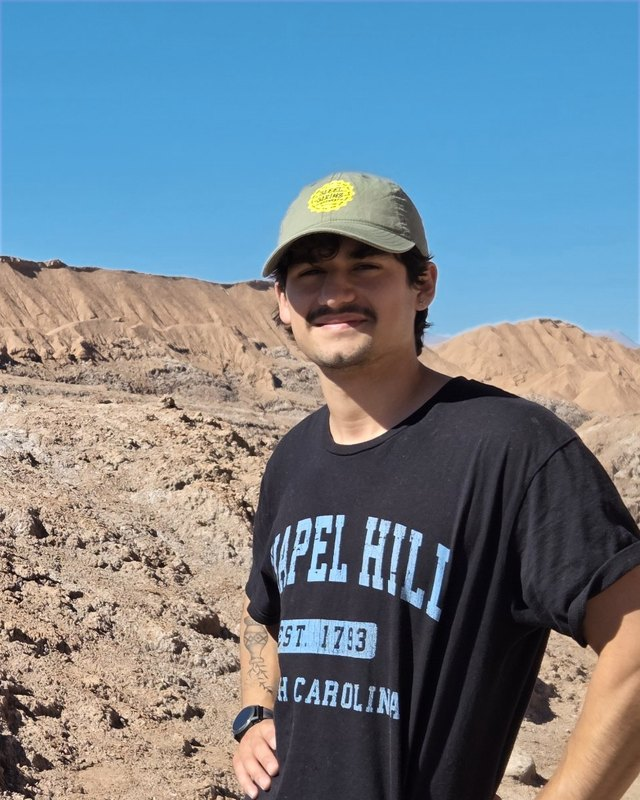
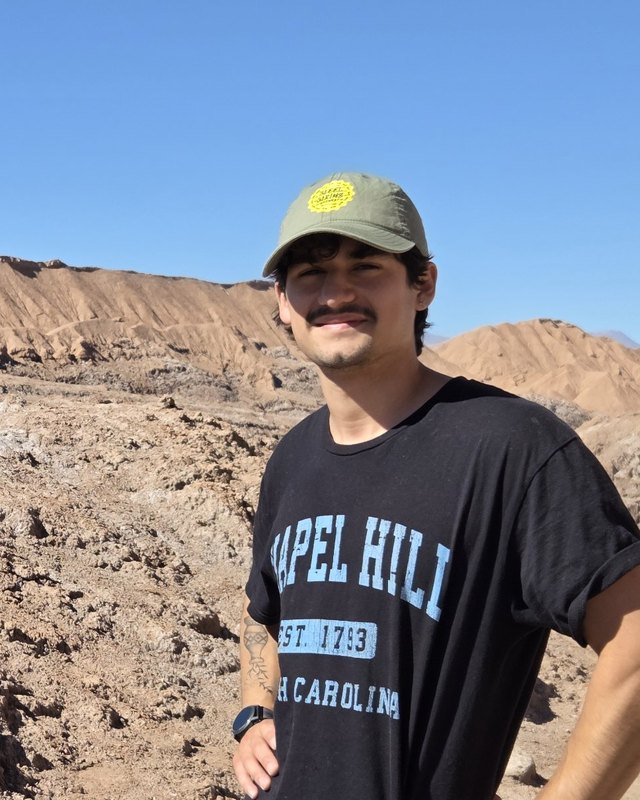
Restore original portrait; match accent colour to its sky
Accent changes from Carolina Blue #4B9CD3 to the photo's sky #7CAFEB,
light accent to #D2E3F7. Focus rings on white use navy for contrast.

Claude-Session: https://claude.ai/code/session_01GtKDeVW7VSudbZqU4ocjJP

diff --git a/assets/css/site.css b/assets/css/site.css
@@ -1,7 +1,7 @@
 :root {
   --navy: #13294B;
-  --carolina: #4B9CD3;
-  --carolina-light: #CFE4F4;
+  --sky: #7CAFEB;
+  --sky-light: #D2E3F7;
   --ink: #202124;
   --muted: #4A4D52;
   --rule: #DADCE0;
@@ -25,11 +25,12 @@ body {
 
 a {
   color: var(--navy);
-  text-decoration-color: var(--carolina);
+  text-decoration-color: var(--sky);
   text-underline-offset: .18em;
 }
 a:hover { text-decoration-color: var(--navy); }
-a:focus-visible { outline: 2px solid var(--carolina); outline-offset: 2px; }
+a:focus-visible { outline: 2px solid var(--navy); outline-offset: 2px; }
+.masthead a:focus-visible { outline-color: var(--sky); }
 
 .skip { position: absolute; left: -999px; }
 .skip:focus { left: 16px; top: 16px; z-index: 1; background: var(--paper); padding: .5rem; }
@@ -40,7 +41,7 @@ a:focus-visible { outline: 2px solid var(--carolina); outline-offset: 2px; }
 .masthead {
   background: var(--navy);
   color: #FFFFFF;
-  border-bottom: 6px solid var(--carolina);
+  border-bottom: 6px solid var(--sky);
 }
 .masthead .wrap { padding-top: 12px; padding-bottom: 26px; }
 
@@ -48,11 +49,11 @@ a:focus-visible { outline: 2px solid var(--carolina); outline-offset: 2px; }
 .lang a {
   display: inline-flex; align-items: center; justify-content: center;
   min-width: 44px; min-height: 44px;
-  color: var(--carolina-light);
+  color: var(--sky-light);
   text-decoration: none;
   border-bottom: 2px solid transparent;
 }
-.lang a[aria-current="page"] { color: #FFFFFF; font-weight: 600; border-bottom-color: var(--carolina); }
+.lang a[aria-current="page"] { color: #FFFFFF; font-weight: 600; border-bottom-color: var(--sky); }
 .lang a:hover { color: #FFFFFF; }
 
 .name {
@@ -64,7 +65,7 @@ a:focus-visible { outline: 2px solid var(--carolina); outline-offset: 2px; }
 }
 .name a { color: #FFFFFF; text-decoration: none; }
 
-.role { font-family: var(--sans); font-size: 15px; line-height: 1.5; color: var(--carolina-light); margin: 0; }
+.role { font-family: var(--sans); font-size: 15px; line-height: 1.5; color: var(--sky-light); margin: 0; }
 
 /* Body */
 .page { display: flex; flex-wrap: wrap; gap: 40px 64px; padding: 48px 0 72px; }
@@ -100,7 +101,7 @@ a:focus-visible { outline: 2px solid var(--carolina); outline-offset: 2px; }
 .content p { margin: 0 0 18px; }
 .content p:last-child { margin-bottom: 0; }
 
-.pub { border-left: 4px solid var(--carolina); padding: 4px 0 4px 20px; }
+.pub { border-left: 4px solid var(--sky); padding: 4px 0 4px 20px; }
 .pub + .pub { margin-top: 28px; }
 .pub-meta { font-family: var(--sans); font-size: 13px; font-weight: 500; color: var(--muted); margin: 0 0 6px !important; }
 .pub h3 { font-weight: 600; font-size: 20px; line-height: 1.3; margin: 0 0 6px; }
